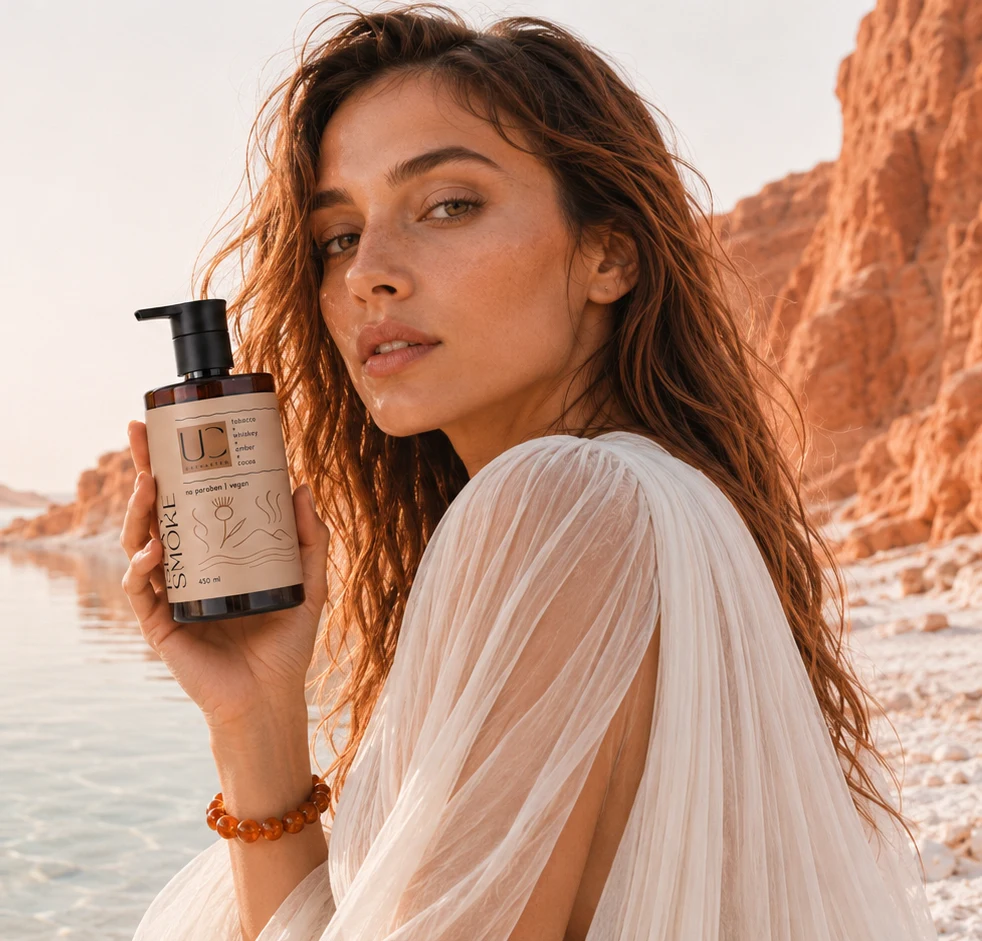
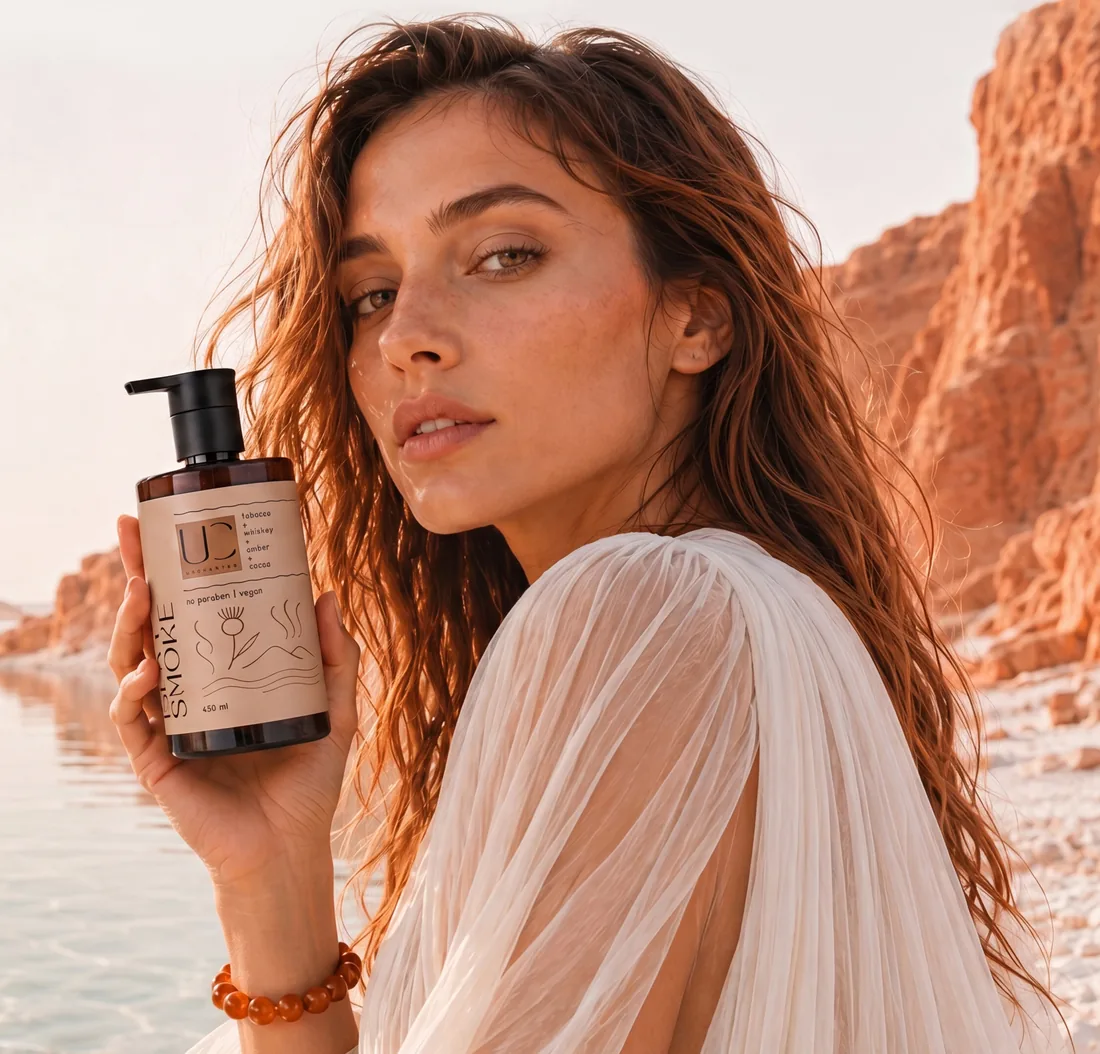
Шапка-пилюлей (плавающая, frosted, закреплена) + новое hero-фото HD
- Вынес лого+навигацию из .page в фиксированный <header class="topbar">
  (вне overflow:hidden, не уезжает со скроллом; zoom как у .page).
- Полупрозрачная «пилюля» по ширине контента: backdrop-blur, мягкое
  скругление 30px, симметричные отступы (лого слева = «КОНТАКТЫ» справа).
- На мобилке скрыта (работает родная .m-header).
- Hero-фото заменено на исходник 16.9 МП: render 2048×1153 (156 КБ) и
  m/ 1100×1054 (111 КБ) — резче и легче прежних; кадрирование сохранено.

diff --git a/styles.css b/styles.css
@@ -105,8 +105,45 @@ a.t, a.btn { color: #313131; text-decoration: none; }
    (раньше top:908 перекрывал девушку → «каталог обрезал»); крем начинается под фото */
 .n593 { left: -72px; top: 1043px; width: 2095px; height: 767px; background: #FAF5F1; }
 
-/* 521:594 logo */
-.n594 { left: 49px; top: 54px; width: 168px; height: 143px; }
+/* ============ Плавающая скруглённая шапка-«пилюля» ============
+   Живёт ВНЕ .page (прямой потомок body), поэтому не клипуется overflow:hidden
+   и не уезжает со скроллом. zoom = clientWidth/1920 задаётся в index.html (как у .page),
+   так что дизайн-px совпадают с системой координат макета.
+   Flex + width:max-content → полоса равна ширине контента (не на всю ширину).
+   Симметричный padding 46px → отступ от лого слева = отступ после «КОНТАКТЫ» справа. */
+.topbar {
+  position: fixed;
+  top: 26px;
+  left: 46px;
+  z-index: 900;             /* ниже модалки .buy-modal (z-index:1000) */
+  display: flex;
+  align-items: center;
+  gap: 60px;                /* лого ↔ навигация */
+  height: 104px;
+  padding: 0 46px;
+  width: -moz-max-content;
+  width: max-content;
+  background: rgba(250, 245, 241, .68);
+  -webkit-backdrop-filter: blur(16px) saturate(108%);
+          backdrop-filter: blur(16px) saturate(108%);
+  border: 1px solid rgba(49, 49, 49, .10);
+  border-radius: 30px;      /* мягкое скругление (не полный «стадион») */
+  box-shadow: 0 16px 42px rgba(90, 55, 30, .12);
+  font-family: 'Tenor Sans', sans-serif;
+}
+.tb-logo { display: block; line-height: 0; }
+.tb-logo img { display: block; width: 94px; height: auto; }
+.tb-nav { display: flex; align-items: baseline; gap: 45px; }
+.tb-link {
+  font-size: 28.8px;
+  line-height: 1;
+  text-transform: uppercase;
+  color: #313131;
+  text-decoration: none;
+  white-space: nowrap;
+  transition: color .25s ease;
+}
+.tb-link:hover { color: #C35B3F; }
 
 /* 521:607 canyon valley bg */
 .n607 { left: -2px; top: 7054px; width: 1924px; height: 1374px;
@@ -133,10 +170,7 @@ a.t, a.btn { color: #313131; text-decoration: none; }
 /* 521:613 footer texture */
 .n613 { left: 0; top: 8428px; width: 1920px; height: 582px; }
 
-/* nav */
-.n614 { left: 311px; top: 92px; width: 156px; }
-.n615 { left: 549px; top: 92px; width: 147px; }
-.n616 { left: 778px; top: 92px; width: 177px; }
+/* nav (.nav-link используется в catalog.html — оставлено) */
 .nav-link { font-size: 28.8px; line-height: 1; }
 
 /* intro texts */

diff --git a/index.html b/index.html
@@ -18,6 +18,17 @@
 <link rel="stylesheet" href="anim.css">
 </head>
 <body>
+
+<!-- фиксированная полупрозрачная шапка (Figma header) -->
+<header class="topbar" id="topbar">
+  <a class="tb-logo" href="#" data-scroll="0" aria-label="UNCHARTED — наверх"><img src="public/images/logo.svg" alt="UNCHARTED"></a>
+  <nav class="tb-nav" aria-label="Основная навигация">
+    <a class="tb-link" href="#" data-scroll="6849">о бренде</a>
+    <a class="tb-link" href="catalog.html">каталог</a>
+    <a class="tb-link" href="#" data-scroll="8428">контакты</a>
+  </nav>
+</header>
+
 <div class="page">
 
   <!-- 521:582 catalog texture bg -->
@@ -36,9 +47,6 @@
   <div class="abs n593"></div>
   <div class="abs hero-fade"></div>
 
-  <!-- 521:594 logo -->
-  <img class="abs n594" src="public/images/logo.svg" alt="UNCHARTED" data-scroll="0">
-
   <!-- 521:607 canyon valley bg -->
   <img class="abs n607" src="public/images/adj/521-607-adj.webp" alt="" loading="lazy">
 
@@ -56,11 +64,6 @@
 
   <!-- 521:613 footer texture -->
   <img class="abs n613" src="public/images/521-613.webp" alt="" loading="lazy">
-
-  <!-- nav 521:614-616 -->
-  <a class="t up nav-link n614" href="#" data-scroll="6849">о бренде</a>
-  <a class="t up nav-link n615" href="catalog.html">каталог</a>
-  <a class="t up nav-link n616" href="#" data-scroll="8428">контакты</a>
 
   <!-- декоративный фон интро: туманные пейзажи + лайн-арт эскизы (Figma 825:20) -->
   <img class="abs intro-bg" src="public/images/render/intro-bg.webp" alt="" loading="lazy">
@@ -429,9 +432,12 @@
 <script>
 (function () {
   var page = document.querySelector('.page');
+  var bar  = document.getElementById('topbar');
   function fit() {
     var w = document.documentElement.clientWidth;
-    page.style.zoom = w > 768 ? (w / 1920) : '';
+    var z = w > 768 ? (w / 1920) : '';
+    page.style.zoom = z;
+    if (bar) bar.style.zoom = z;
   }
   window.addEventListener('resize', fit);
   fit();

diff --git a/mobile.css b/mobile.css
@@ -14,6 +14,7 @@
 
 @media (max-width: 768px) {
   .page { display: none; }
+  .topbar { display: none; }   /* на мобилке работает своя .m-header */
   body { background: #FAF5F1; }
 
   html {
